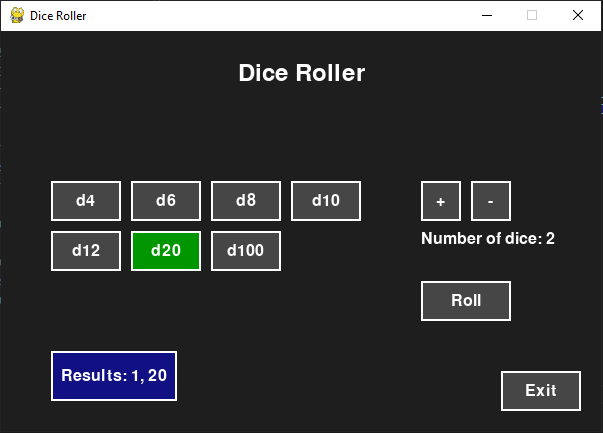
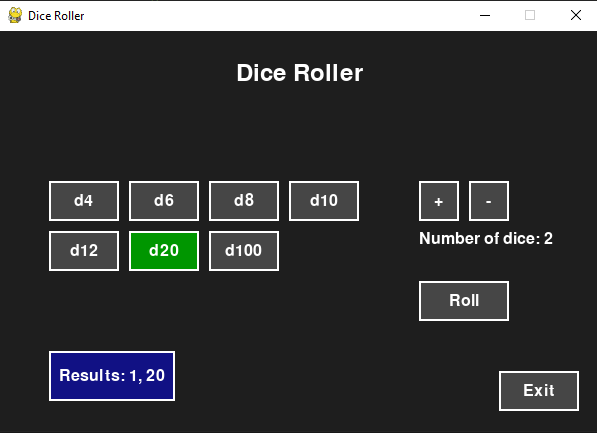
Initial working version of RecipeBook CLI app (WIP) - Basic CLI with add, delete, and filter features - Recipe and RecipeBook classes implemented - Data stored in JSON - Duplicate recipe prevention added

diff --git a/recipe_book/utils.py b/recipe_book/utils.py
@@ -1,0 +1,118 @@
+from models import Recipe
+import random
+
+CATEGORIES = ["Breakfast", "Lunch", "Dinner", "Snack", "Dessert", "Drink"]
+
+def print_menu():
+    print("\n=== Recipe Book ===")
+    print("1. Add a new recipe")
+    print("2. List all recipes")
+    print("3. Filter by category")
+    print("4. Suggest a random recipe")
+    print("5. Find a recipe by name")
+    print("6. Edit a recipe")
+    print("7. Delete a recipe")
+    print("8. Save and exit")
+
+def add_recipe(recipe_book):
+    name = input("Recipe name: ").strip()
+    ingredients = input("Ingredients (comma separated): ").split(",")
+    instructions = input("Instructions: ").strip()
+
+    print(f"Available categories: {', '.join(CATEGORIES)}")
+    category = input("Category: ").strip()
+    if category not in CATEGORIES:
+        print("⚠ Invalid category. Adding as 'Uncategorized'.")
+        category = "Uncategorized"
+
+    recipe = Recipe(
+        title=name,
+        ingredients=[i.strip() for i in ingredients],
+        instructions=instructions,
+        category=category
+    )
+
+    success = recipe_book.add_recipe(recipe)
+    if success:
+        print(f"✅ Recipe '{name}' added successfully.")
+    else:
+        print("⚠ Duplicate recipe. Add aborted.")
+
+def edit_recipe(recipe_book):
+    title = input("Enter the name of the recipe to edit: ").strip()
+    recipe = recipe_book.find_by_title(title)
+    if not recipe:
+        print("❌ Recipe not found.")
+        return
+
+    print("Leave any field empty to keep current value.")
+    
+    new_name = input(f"New name [{recipe.title}]: ").strip()
+    new_ingredients = input("New ingredients (comma-separated): ").strip()
+    new_instructions = input("New instructions: ").strip()
+    new_category = input(f"New category [{recipe.category}]: ").strip()
+
+    if new_name:
+        recipe.title = new_name
+    if new_ingredients:
+        recipe.ingredients = [i.strip() for i in new_ingredients.split(",")]
+    if new_instructions:
+        recipe.instructions = new_instructions
+    if new_category:
+        recipe.category = new_category
+
+    print(f"✅ '{recipe.title}' updated.")
+
+def delete_recipe(recipe_book):
+    title = input("Enter the name of the recipe to delete: ").strip()
+    recipe = recipe_book.find_by_title(title)
+    if not recipe:
+        print("❌ Recipe not found.")
+        return
+
+    confirm = input(f"Are you sure you want to delete '{recipe.title}'? (y/n): ").strip().lower()
+    if confirm == 'y':
+        recipe_book.recipes.remove(recipe)
+        print(f"🗑 '{recipe.title}' deleted.")
+    else:
+        print("❎ Delete cancelled.")
+
+def list_recipes(recipe_book):
+    if not recipe_book.recipes:
+        print("No recipes found.")
+        return
+    for i, r in enumerate(recipe_book.recipes, 1):
+        print(f"\n{i}. {r.title} [{r.category}]")
+        print(f"   Ingredients: {', '.join(r.ingredients)}")
+        print(f"   Instructions: {r.instructions}")
+
+def filter_by_category(recipe_book):
+    category = input("Enter category to filter by: ").strip()
+    filtered = recipe_book.filter_by_category(category)
+    if not filtered:
+        print("No recipes found in that category.")
+        return
+    for i, r in enumerate(filtered, 1):
+        print(f"\n{i}. {r.title}")
+        print(f"   Ingredients: {', '.join(r.ingredients)}")
+        print(f"   Instructions: {r.instructions}")
+
+def find_recipe_by_title(recipe_book):
+    title = input("Enter recipe name/title to search: ").strip()
+    r = recipe_book.find_by_title(title)
+    if r:
+        print(f"\n🔍 Found: {r.title} [{r.category}]")
+        print(f"   Ingredients: {', '.join(r.ingredients)}")
+        print(f"   Instructions: {r.instructions}")
+    else:
+        print("❌ No recipe found by that name.")
+
+def suggest_random(recipe_book):
+    if not recipe_book.recipes:
+        print("No recipes to suggest.")
+        return
+    r = random.choice(recipe_book.recipes)
+    print(f"\n✨ Suggested Recipe: {r.title}")
+    print(f"   Category: {r.category}")
+    print(f"   Ingredients: {', '.join(r.ingredients)}")
+    print(f"   Instructions: {r.instructions}")

diff --git a/recipe_book/models.py b/recipe_book/models.py
@@ -1,0 +1,58 @@
+import json
+
+class Recipe:
+    def __init__(self, title, ingredients, instructions, category=None):
+        self.title = title
+        self.ingredients = ingredients  # List of strings
+        self.instructions = instructions  # String
+        self.category = category or "Uncategorized"
+
+    def to_dict(self):
+        return {
+            "title": self.title,
+            "ingredients": self.ingredients,
+            "instructions": self.instructions,
+            "category": self.category
+        }
+
+    @classmethod
+    def from_dict(cls, data):
+        return cls(
+            title=data["title"],
+            ingredients=data["ingredients"],
+            instructions=data["instructions"],
+            category=data.get("category", "Uncategorized")
+        )
+
+class RecipeBook:
+    def __init__(self):
+        self.recipes = []
+
+    def add_recipe(self, recipe):
+        existing = self.find_by_exact_title(recipe.title)
+        if existing:
+            print(f"A recipe titled '{recipe.title}' already exists.")
+            return False
+        self.recipes.append(recipe)
+        return True
+
+    def find_by_title(self, keyword):
+        for recipe in self.recipes:
+            if keyword.lower() == recipe.title.lower():
+                return recipe
+        return None
+
+    def find_by_exact_title(self, title):
+        for recipe in self.recipes:
+            if recipe.title.lower() == title.lower():
+                return recipe
+        return None
+
+    def filter_by_category(self, category):
+        return [r for r in self.recipes if r.category.lower() == category.lower()]
+
+    def to_dict(self):
+        return [r.to_dict() for r in self.recipes]
+
+    def load_from_dict(self, data_list):
+        self.recipes = [Recipe.from_dict(d) for d in data_list]

diff --git a/recipe_book/main.py b/recipe_book/main.py
@@ -1,0 +1,42 @@
+from utils import (
+    print_menu,
+    add_recipe,
+    filter_by_category,
+    suggest_random,
+    find_recipe_by_title,
+    edit_recipe,
+    delete_recipe,
+    list_recipes
+)
+from storage import load_from_file, save_to_file
+
+
+def main():
+    recipe_book = load_from_file()
+
+    while True:
+        print_menu()
+        choice = input("Choose an option (1-5): ").strip()
+        if choice == "1":
+            add_recipe(recipe_book)
+        elif choice == "2":
+            list_recipes(recipe_book)
+        elif choice == "3":
+            filter_by_category(recipe_book)
+        elif choice == "4":
+            suggest_random(recipe_book)
+        elif choice == "5":
+            find_recipe_by_title(recipe_book)
+        elif choice == "6":
+            edit_recipe(recipe_book)
+        elif choice == "7":
+            delete_recipe(recipe_book)
+        elif choice == "8":
+            save_to_file(recipe_book)
+            print("📘 Recipe book saved. Goodbye!")
+            break
+        else:
+            print("Invalid choice. Try again.")
+
+if __name__ == "__main__":
+    main()

diff --git a/recipe_book/storage.py b/recipe_book/storage.py
@@ -1,0 +1,25 @@
+import json
+import os
+from models import RecipeBook
+
+# Directory and file paths
+DATA_DIR = "./data"
+DATA_FILE = os.path.join(DATA_DIR, "recipes.json")
+
+# Ensure the data directory exists
+os.makedirs(DATA_DIR, exist_ok=True)
+
+def save_to_file(recipe_book, filename=DATA_FILE):
+    with open(filename, "w", encoding="utf-8") as f:
+        json.dump(recipe_book.to_dict(), f, indent=2, ensure_ascii=False)
+
+def load_from_file(filename=DATA_FILE):
+    book = RecipeBook()
+    if os.path.exists(filename):
+        with open(filename, "r", encoding="utf-8") as f:
+            try:
+                data = json.load(f)
+                book.load_from_dict(data)
+            except json.JSONDecodeError:
+                print("⚠ Warning: Could not load data. JSON is malformed.")
+    return book

diff --git a/recipe_book/README.md b/recipe_book/README.md
@@ -1,0 +1,36 @@
+# 🥘 RecipeBook CLI App
+
+A command-line application for managing your personal recipe collection.
+
+Features:
+- Add and delete recipes
+- Filter recipes by category
+- Prevents duplicate entries
+- JSON-based data persistence
+
+### 🚧 Work In Progress
+This project is still in active development. Upcoming features may include:
+- Recipe search improvements
+- Editable recipe entries
+- Unit tests
+- UI/UX enhancements
+
+### 💡 Tech Stack
+- Python 3
+- JSON for data storage
+- Virtualenv for dependency management
+
+---
+
+Built as part of a Python refresh journey.
+
+```bash
+recipe_book/
+├── main.py                # Runs the CLI app
+├── models.py              # Recipe, RecipeBook classes
+├── storage.py             # JSON saving/loading logic
+├── utils.py               # CLI helper functions
+├── requirements.txt       # For dependencies (optional)
+├── README.md              # Project overview
+└── data/
+    └── recipes.json       # Data store (can be empty at first)
